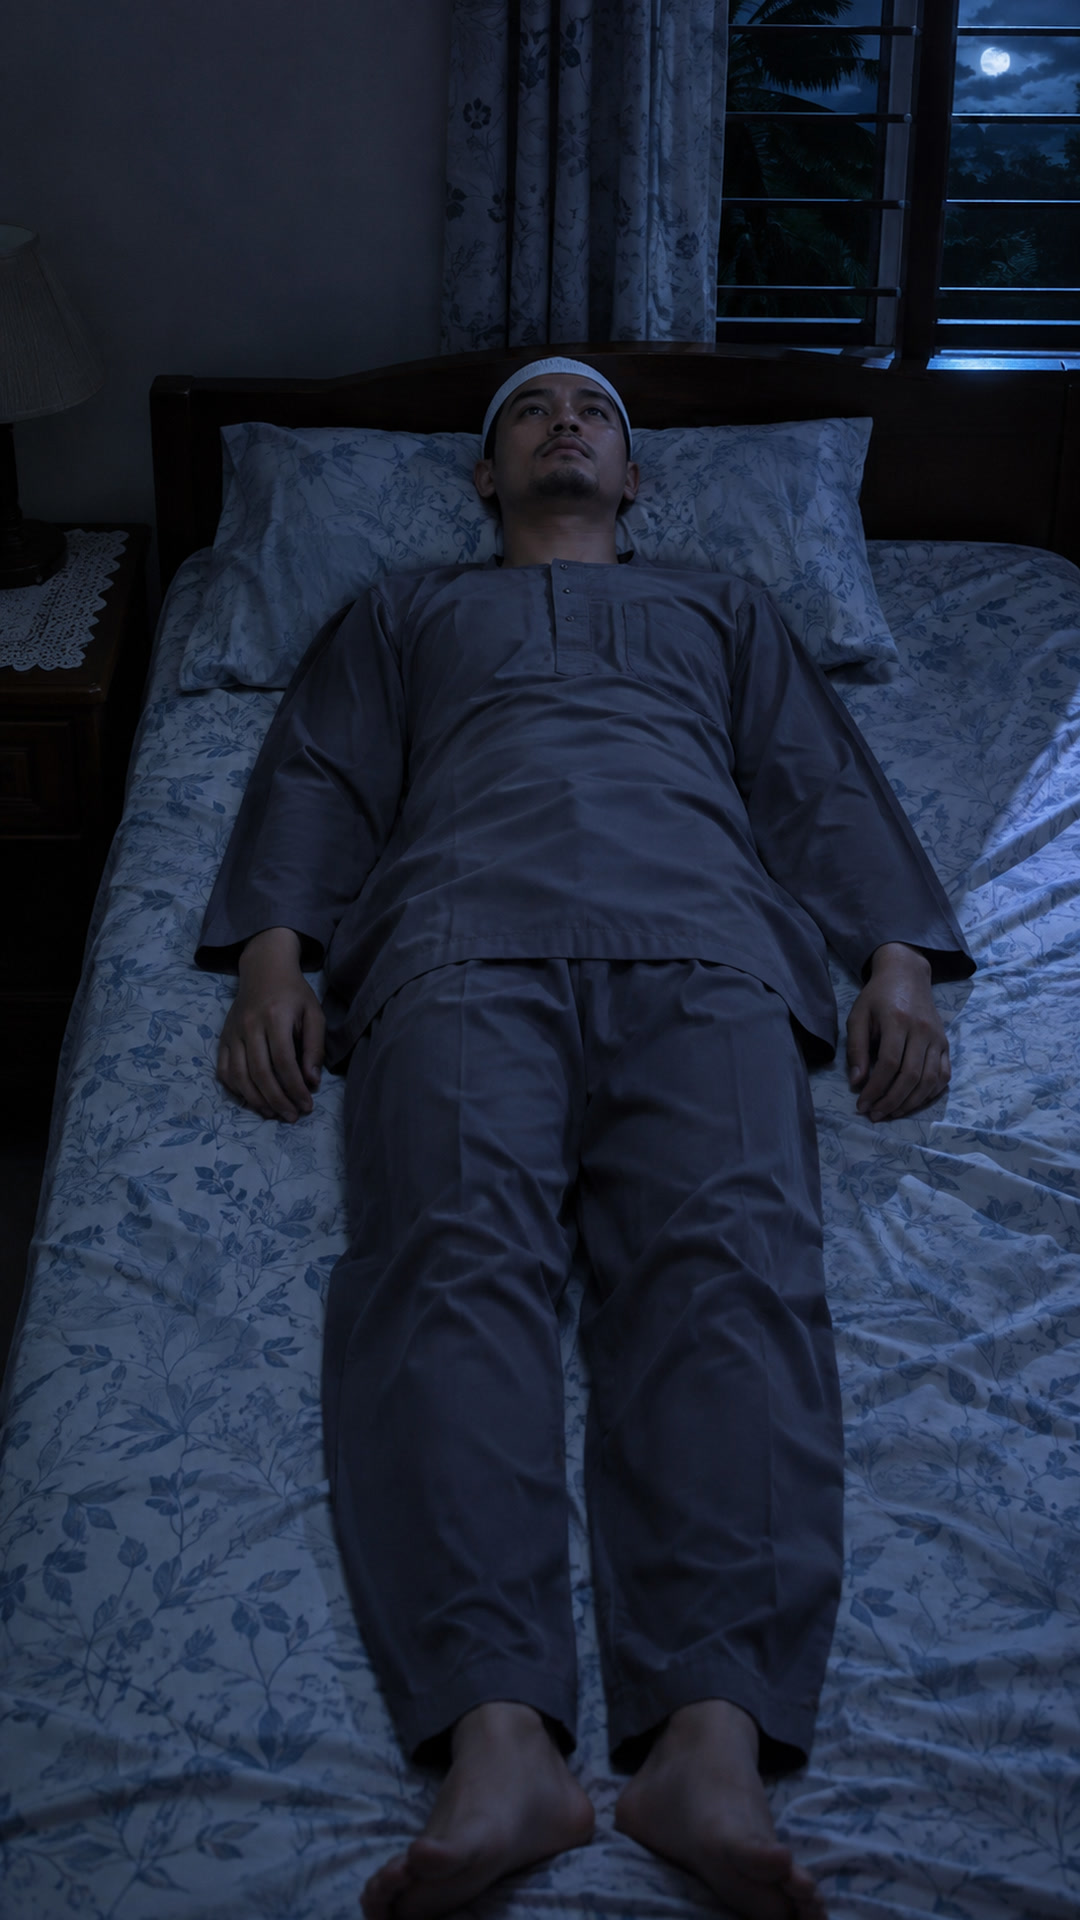
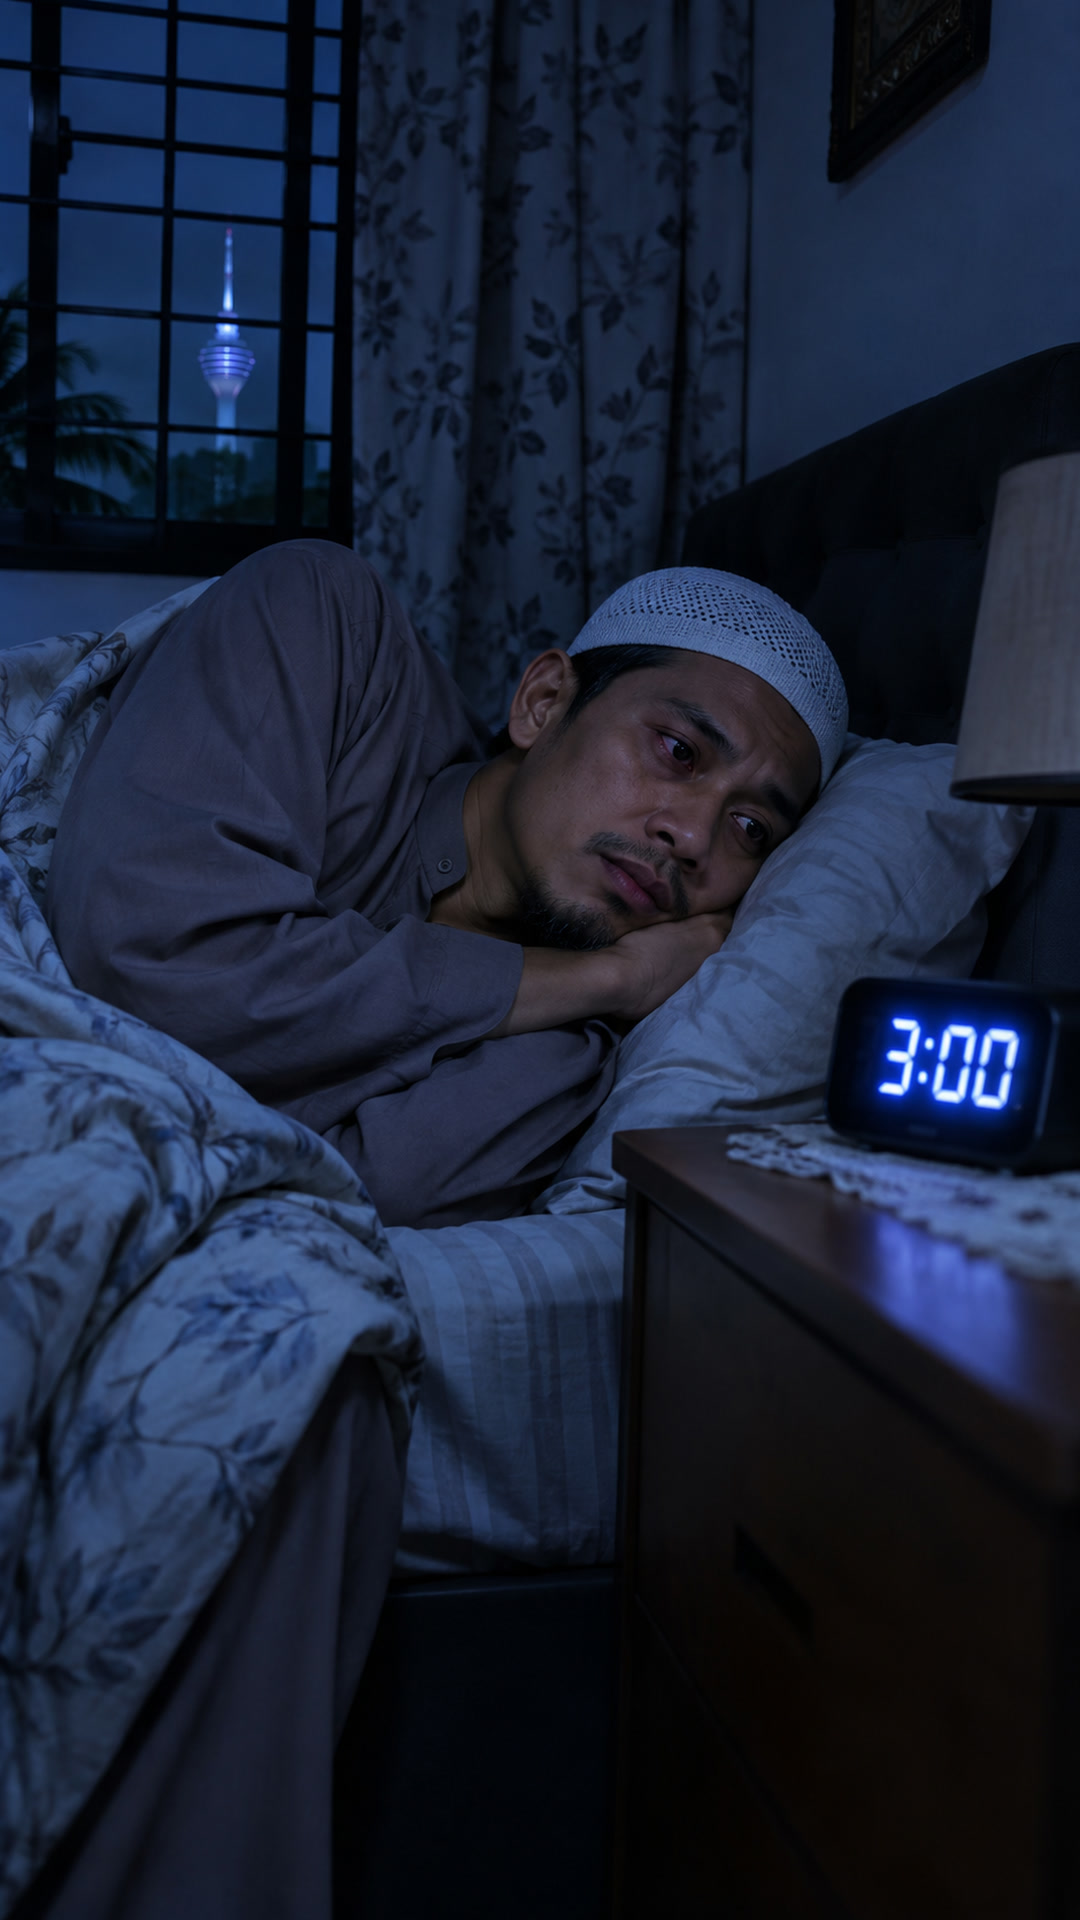
Video today batch: regenerated insomnia cutaway prompt
Claude-Session: https://claude.ai/code/session_012gUR7NqN13i5Z7Vf3Xv6gY

diff --git a/videos/_today/tools/specs.py b/videos/_today/tools/specs.py
@@ -358,7 +358,7 @@ AI = {
             ("A2", W("membesar"), W("insyaallah.#2"), f"Two healthy Malaysian kids running and playing happily in a park in the afternoon. {K}")],
     "p13": [("A1", W("berfikir"), W("mudah"), f"A Malaysian schoolgirl in her school uniform with a white hijab looking confused over her homework at a desk. {K}"),
             ("A2", W("boleh#2"), W("okay.#2"), f"A bright Malaysian schoolboy in long trousers raising his hand confidently in a classroom, smiling. {K}")],
-    "p14": [("A1", W("susah"), W("okay."), f"A Malaysian man lying awake in bed at night staring at the ceiling, unable to sleep, dim blue light. {M}"),
+    "p14": [("A1", W("susah"), W("okay."), f"A Malaysian man lying on his side in bed at night with his eyes open, restless, looking at a glowing bedside clock showing 3 am, tired face, under a blanket, dim blue light. {M}"),
             ("A2", W("relaxkan"), W("kan."), f"A Malaysian man sleeping peacefully in bed with a calm face, soft morning light. {M}")],
     "p15": [("A1", W("tumbasaran"), W("okay.#2"), f"A tall healthy Malaysian teenage boy in a school uniform with long trousers playing basketball at school, energetic. {K}"),
             ("A2", W("kecerdasan"), W("insyaallah."), f"A focused Malaysian teenage girl in a school uniform with a hijab studying happily at a desk. {K}")],

diff --git a/videos/natures-key-magnesium-1/.media/index.md b/videos/natures-key-magnesium-1/.media/index.md
@@ -1,5 +1,6 @@
-# .media · 2 assets
+# .media · 3 assets
 
 id         type   dur   dims   path                         description
 image_001  image  —     —      .media/images/image_001.png  A Malaysian man lying awake in bed at night staring at the ceiling, unable to sleep, dim blue light. The man is a Malay Muslim in a loose long-sleeved shirt and long trousers to the ankle, fully covered, no shorts. Photorealistic, cinematic, natural light, Malaysia, no text, no logos, no readable brand names. Vertical 9:16 portrait composition.
 image_002  image  —     —      .media/images/image_002.png  A Malaysian man sleeping peacefully in bed with a calm face, soft morning light. The man is a Malay Muslim in a loose long-sleeved shirt and long trousers to the ankle, fully covered, no shorts. Photorealistic, cinematic, natural light, Malaysia, no text, no logos, no readable brand names. Vertical 9:16 portrait composition.
+image_003  image  —     —      .media/images/image_003.png  A Malaysian man lying on his side in bed at night with his eyes open, restless, looking at a glowing bedside clock showing 3 am, tired face, under a blanket, dim blue light. The man is a Malay Muslim in a loose long-sleeved shirt and long trousers to the ankle, fully covered, no shorts. Photorealistic, cinematic, natural light, Malaysia, no text, no logos, no readable brand names. Vertical 9:16 portrait composition.

diff --git a/videos/kalimah-gantung-kunci-1/.media/index.md b/videos/kalimah-gantung-kunci-1/.media/index.md
@@ -1,0 +1,5 @@
+# .media · 2 assets
+
+id         type   dur   dims   path                         description
+image_001  image  —     —      .media/images/image_001.png  A tidy modern Malaysian home entrance with a neat wall and a small console table, keys hanging neatly, warm light. No people, no text. Photorealistic, cinematic, natural light, Malaysia, no text, no logos, no readable brand names. Vertical 9:16 portrait composition.
+image_002  image  —     —      .media/images/image_002.png  A happy Malaysian family coming home through a beautiful neat front door, warm evening light. The man is a Malay Muslim in a loose long-sleeved shirt and long trousers to the ankle, fully covered, no shorts. The woman is a Malay Muslim wearing a hijab covering her hair, neck and chest and loose long clothing covering her whole body except face and hands. Children are fully covered: boys in long trousers and long sleeves, girls in a hijab and loose long clothes. Photorealistic, cinematic, natural light, Malaysia, no text, no logos, no readable brand names. Vertical 9:16 portrait composition.

diff --git a/videos/infinity-probiotics-6/.media/index.md b/videos/infinity-probiotics-6/.media/index.md
@@ -1,0 +1,5 @@
+# .media · 2 assets
+
+id         type   dur   dims   path                         description
+image_001  image  —     —      .media/images/image_001.png  A Malaysian woman frowning at her dull tired skin and puffy face in a mirror. The woman is a Malay Muslim wearing a hijab covering her hair, neck and chest and loose long clothing covering her whole body except face and hands. Photorealistic, cinematic, natural light, Malaysia, no text, no logos, no readable brand names. Vertical 9:16 portrait composition.
+image_002  image  —     —      .media/images/image_002.png  A healthy happy Malaysian couple laughing together in a park in the morning. The man is a Malay Muslim in a loose long-sleeved shirt and long trousers to the ankle, fully covered, no shorts. The woman is a Malay Muslim wearing a hijab covering her hair, neck and chest and loose long clothing covering her whole body except face and hands. Photorealistic, cinematic, natural light, Malaysia, no text, no logos, no readable brand names. Vertical 9:16 portrait composition.

diff --git a/videos/infinity-magnesium-1/.media/index.md b/videos/infinity-magnesium-1/.media/index.md
@@ -1,0 +1,5 @@
+# .media · 2 assets
+
+id         type   dur   dims   path                         description
+image_001  image  —     —      .media/images/image_001.png  A stressed Malaysian woman at her work desk late at night holding her head, papers piled up. The woman is a Malay Muslim wearing a hijab covering her hair, neck and chest and loose long clothing covering her whole body except face and hands. Photorealistic, cinematic, natural light, Malaysia, no text, no logos, no readable brand names. Vertical 9:16 portrait composition.
+image_002  image  —     —      .media/images/image_002.png  A Malaysian woman sleeping peacefully under a blanket with a calm face, soft night light. The woman is a Malay Muslim wearing a hijab covering her hair, neck and chest and loose long clothing covering her whole body except face and hands. Photorealistic, cinematic, natural light, Malaysia, no text, no logos, no readable brand names. Vertical 9:16 portrait composition.

diff --git a/videos/probiotik-plus-1/.media/index.md b/videos/probiotik-plus-1/.media/index.md
@@ -1,0 +1,5 @@
+# .media · 2 assets
+
+id         type   dur   dims   path                         description
+image_001  image  —     —      .media/images/image_001.png  A Malaysian woman sitting on a sofa holding her bloated stomach in discomfort. The woman is a Malay Muslim wearing a hijab covering her hair, neck and chest and loose long clothing covering her whole body except face and hands. Photorealistic, cinematic, natural light, Malaysia, no text, no logos, no readable brand names. Vertical 9:16 portrait composition.
+image_002  image  —     —      .media/images/image_002.png  A Malaysian woman stretching happily by a sunny window in the morning, light and comfortable. The woman is a Malay Muslim wearing a hijab covering her hair, neck and chest and loose long clothing covering her whole body except face and hands. Photorealistic, cinematic, natural light, Malaysia, no text, no logos, no readable brand names. Vertical 9:16 portrait composition.

diff --git a/videos/buku-tahajud-3/.media/index.md b/videos/buku-tahajud-3/.media/index.md
@@ -1,0 +1,5 @@
+# .media · 2 assets
+
+id         type   dur   dims   path                         description
+image_001  image  —     —      .media/images/image_001.png  A Malaysian man performing tahajud prayer alone at night on a prayer mat in a dim quiet room, peaceful. The man is a Malay Muslim in a loose long-sleeved shirt and long trousers to the ankle, fully covered, no shorts. Photorealistic, cinematic, natural light, Malaysia, no text, no logos, no readable brand names. Vertical 9:16 portrait composition.
+image_002  image  —     —      .media/images/image_002.png  A Malaysian woman in a white telekung making doa with raised hands at night, calm and moved. The woman is a Malay Muslim wearing a hijab covering her hair, neck and chest and loose long clothing covering her whole body except face and hands. Photorealistic, cinematic, natural light, Malaysia, no text, no logos, no readable brand names. Vertical 9:16 portrait composition.

diff --git a/videos/energose-promax-1/.media/index.md b/videos/energose-promax-1/.media/index.md
@@ -1,0 +1,5 @@
+# .media · 2 assets
+
+id         type   dur   dims   path                         description
+image_001  image  —     —      .media/images/image_001.png  A tired Malaysian man in the afternoon heat wiping his forehead, low energy, holding a plain glass of water. The man is a Malay Muslim in a loose long-sleeved shirt and long trousers to the ankle, fully covered, no shorts. Photorealistic, cinematic, natural light, Malaysia, no text, no logos, no readable brand names. Vertical 9:16 portrait composition.
+image_002  image  —     —      .media/images/image_002.png  A refreshing tall glass of bright yellow pineapple drink with ice and pineapple slices, condensation, summer light. No people, no text. Photorealistic, cinematic, natural light, Malaysia, no text, no logos, no readable brand names. Vertical 9:16 portrait composition.
